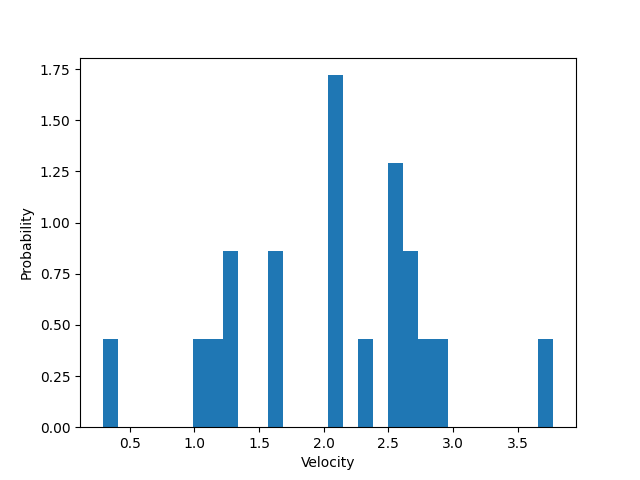
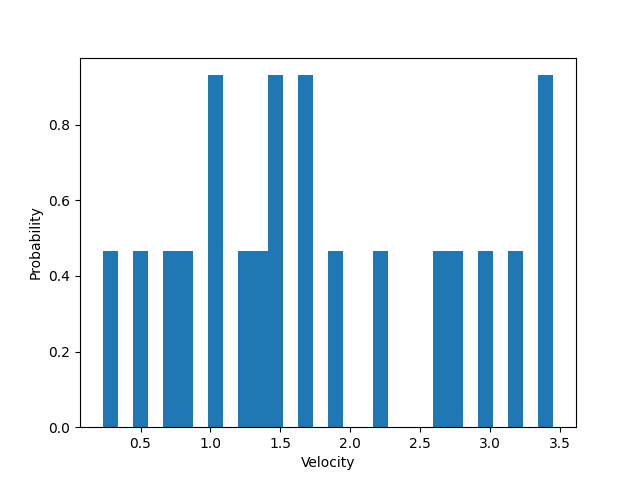
I swear it's the last one

diff --git a/Run.py b/Run.py
@@ -3,11 +3,11 @@ import matplotlib.pyplot as plt
 from MD_System_Class import Simulated_System as md
 
 # Name of the log files
-name = "dt001"
+name = "alpha0"
 # Alpha values
-alpha = 1
+alpha = 0
 # dt values
-delta_t = 0.01
+delta_t = 0.001
 
 
 # Initialise MD system:
